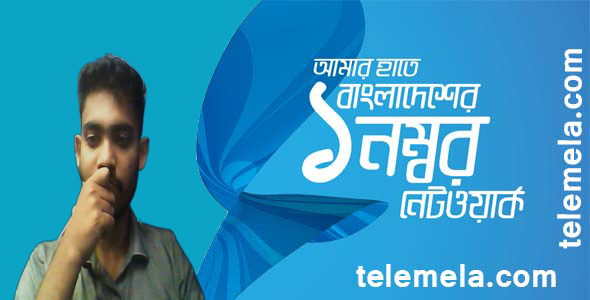
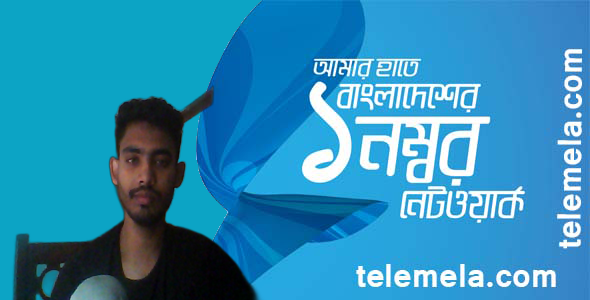
update readme file

Changed region(s): [[0.0, 0.18, 0.4576, 1.0]]

diff --git a/app.py b/app.py
@@ -60,7 +60,7 @@ def process_image():
 
         # Define custom positioning and sizing
         position = (0, 10)  # The position where you want to place the overlay image (x, y)
-        size = (250, 300)  # The size to which you want to resize the overlay image (width, height)
+        size = (320, 300)  # The size to which you want to resize the overlay image (width, height)
 
         # Remove the background from the uploaded image
         img_without_bg = remove_bg(filename)

diff --git a/Readme.md b/Readme.md
@@ -3,6 +3,9 @@
 - This is a python flask api for remove image background and add a new background in the picture
 - here if i request in the /process_image url with a image file it will response me with base64 image data
 
+### demo Pic
+<img src='uploads/result.png' width='500px' height='400px'>
+
 ###
 
 ### Package I have used here
@@ -22,3 +25,4 @@ pip install rembg
 ``` bash
 pip install flask_cors
 ```
+
